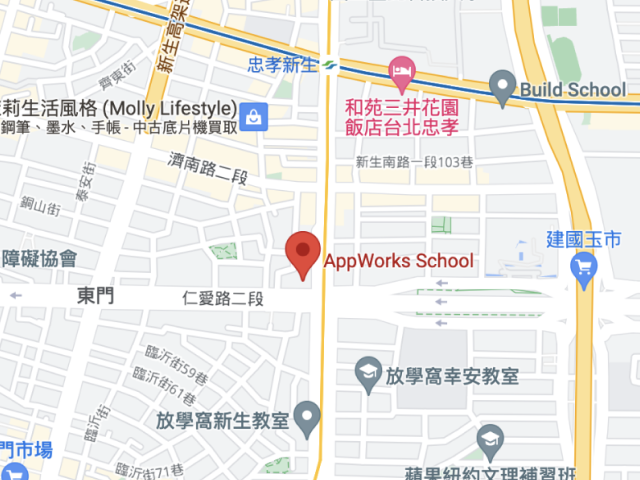
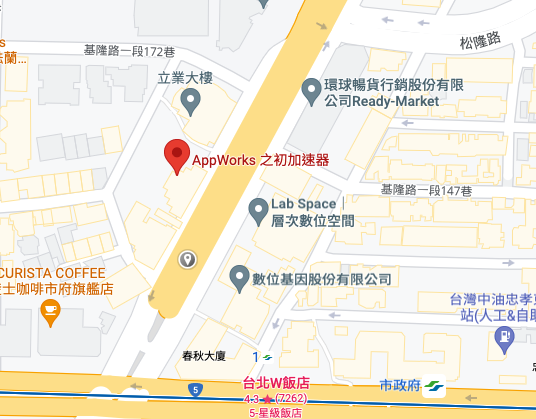
<chores>: update wording and address

diff --git a/src/components/Programs.js b/src/components/Programs.js
@@ -14,7 +14,7 @@ function Programs() {
         </li>
         <li>
           <p className="time">09:00~09:30</p>
-          <p className="topic">DAO - 新時代的 conference 形式</p>
+          <p className="topic">Ceramic - A Portable Self-Sovereign Data Network</p>
           <img src="mic.png" alt="" />
           <p className="name">David</p>
         </li>
@@ -38,9 +38,9 @@ function Programs() {
         </li>
         <li>
           <p className="time">11:40~12:10</p>
-          <p className="topic">Defi 槓桿協議</p>
+          <p className="topic">不需要透過網站且不用透過function即可以執行mint NFT</p>
           <img src="mic.png" alt="" />
-          <p className="name">Wade</p>
+          <p className="name">Aaron</p>
         </li>
         <li>
           <p className="zone">PM</p>
@@ -51,9 +51,9 @@ function Programs() {
         </li>
         <li>
           <p className="time">13:10~13:40</p>
-          <p className="topic">不需要透過網站且不用透過function即可以執行mint NFT</p>
+          <p className="topic">Aptos 上的 Vesting Wallet</p>
           <img src="mic.png" alt="" />
-          <p className="name">Aaron</p>
+          <p className="name">Justa</p>
         </li>
         <li>
           <p className="time">13:50~14:20</p>
@@ -63,13 +63,11 @@ function Programs() {
         </li>
         <li>
           <p className="time">14:30~15:00</p>
-          <p className="topic">Aptos 上的 Vesting Wallet</p>
-          <img src="mic.png" alt="" />
-          <p className="name">Justa</p>
+          <p className="topic">Tea Break</p>
         </li>
         <li>
-          <p className="time">15:00~15:30</p>
-          <p className="event">Tea break</p>
+          <p className="time">15:00~15:20</p>
+          <p className="event">Lightning Talk</p>
         </li>
         <li>
           <p className="time">15:30~16:00</p>
@@ -78,15 +76,21 @@ function Programs() {
           <p className="name">Ray</p>
         </li>
         <li>
-          <p className="time">16:10~16:30</p>
+          <p className="time">16:10~16:40</p>
           <p className="topic">Job Fairs</p>
         </li>
         <li>
-          <p className="time">16:30~17:00</p>
-          <p className="topic">Lighting Talks</p>
+          <p className="time">16:40~17:10</p>
+          <p className="topic">Teleport module on Aptos</p>
+          <img src="mic.png" alt="" />
+          <p className="name">Rick</p>
+        </li>
+        <li>
+          <p className="time">17:10~17:15</p>
+          <p className="topic">Closing</p>
         </li>
         <li className="pb-28">
-          <p className="time">17:00~19:00</p>
+          <p className="time">17:15</p>
           <p className="event">Dinner party for speakers and sponsers</p>
         </li>
       </ul>

diff --git a/src/ListDescription.js b/src/ListDescription.js
@@ -131,8 +131,11 @@ export default function ListDescription() {
         <h2>活動時間與地點 - When and Where</h2>
         <ol style={{ listStyleType: "upper-alpha" }}>
           <li>&#9200; 時間 - 12/10 9:00 ~ 17:00</li>
-          <li>&#127758; 地點 - AppWorks 4F <a href='https://goo.gl/maps/KnQecmdLGLbM9SBF9'>110台北市信義區基隆路一段178號4樓</a></li>
-          <li>&#127836; 餐點 - 供午餐 (free lunch)</li>
+          <li>
+            &#127758; 地點 - AppWorks 4F{" "}
+            <a href="https://goo.gl/maps/gNvPm7LuzScsxQEh8">110台北市信義區基隆路一段178號4樓</a>
+          </li>
+          <li>&#127836; 餐點 - 供午晚餐 (free lunch & supper)</li>
         </ol>
         <h2>徵稿 - Call for Papers</h2>
         <a href="https://docs.google.com/forms/d/e/1FAIpQLSe9-BdV8BL1bG0G6uoopi_ftoFj55jL5OFRj5ZfIkXVjObGiw/viewform">

diff --git a/src/components/Place.js b/src/components/Place.js
@@ -11,14 +11,14 @@ function Place() {
                 時間
                 <span className="pl-5">12/10（六）9:00 ~ 17:00</span>
               </li>
-              <li className="pl-11">AppWorks School 4F</li>
+              <li className="pl-11">AppWorks加速器 4F</li>
               <li>
                 地點
-                <span className="pl-5">100台北市中正區仁愛路二段99號 4F</span>
+                <span className="pl-5">110台北市信義區基隆路一段178號 4F</span>
               </li>
               <li>
                 餐點
-                <span className="pl-5">供午餐 (free lunch)</span>
+                <span className="pl-5">供午晚餐 (free lunch & supper)</span>
               </li>
             </ul>
           </div>

diff --git a/src/components/PapersDao.js b/src/components/PapersDao.js
@@ -17,7 +17,7 @@ function PapersDao() {
           <h3>Join DAO !</h3>
         </div>
         <div className="btn">
-          <a href="">Click here</a>
+          <a href="https://discord.gg/HhHrYqP2za">Click here</a>
         </div>
         <div className="dao-pic">
           <img src="daopic.png" alt="" />
